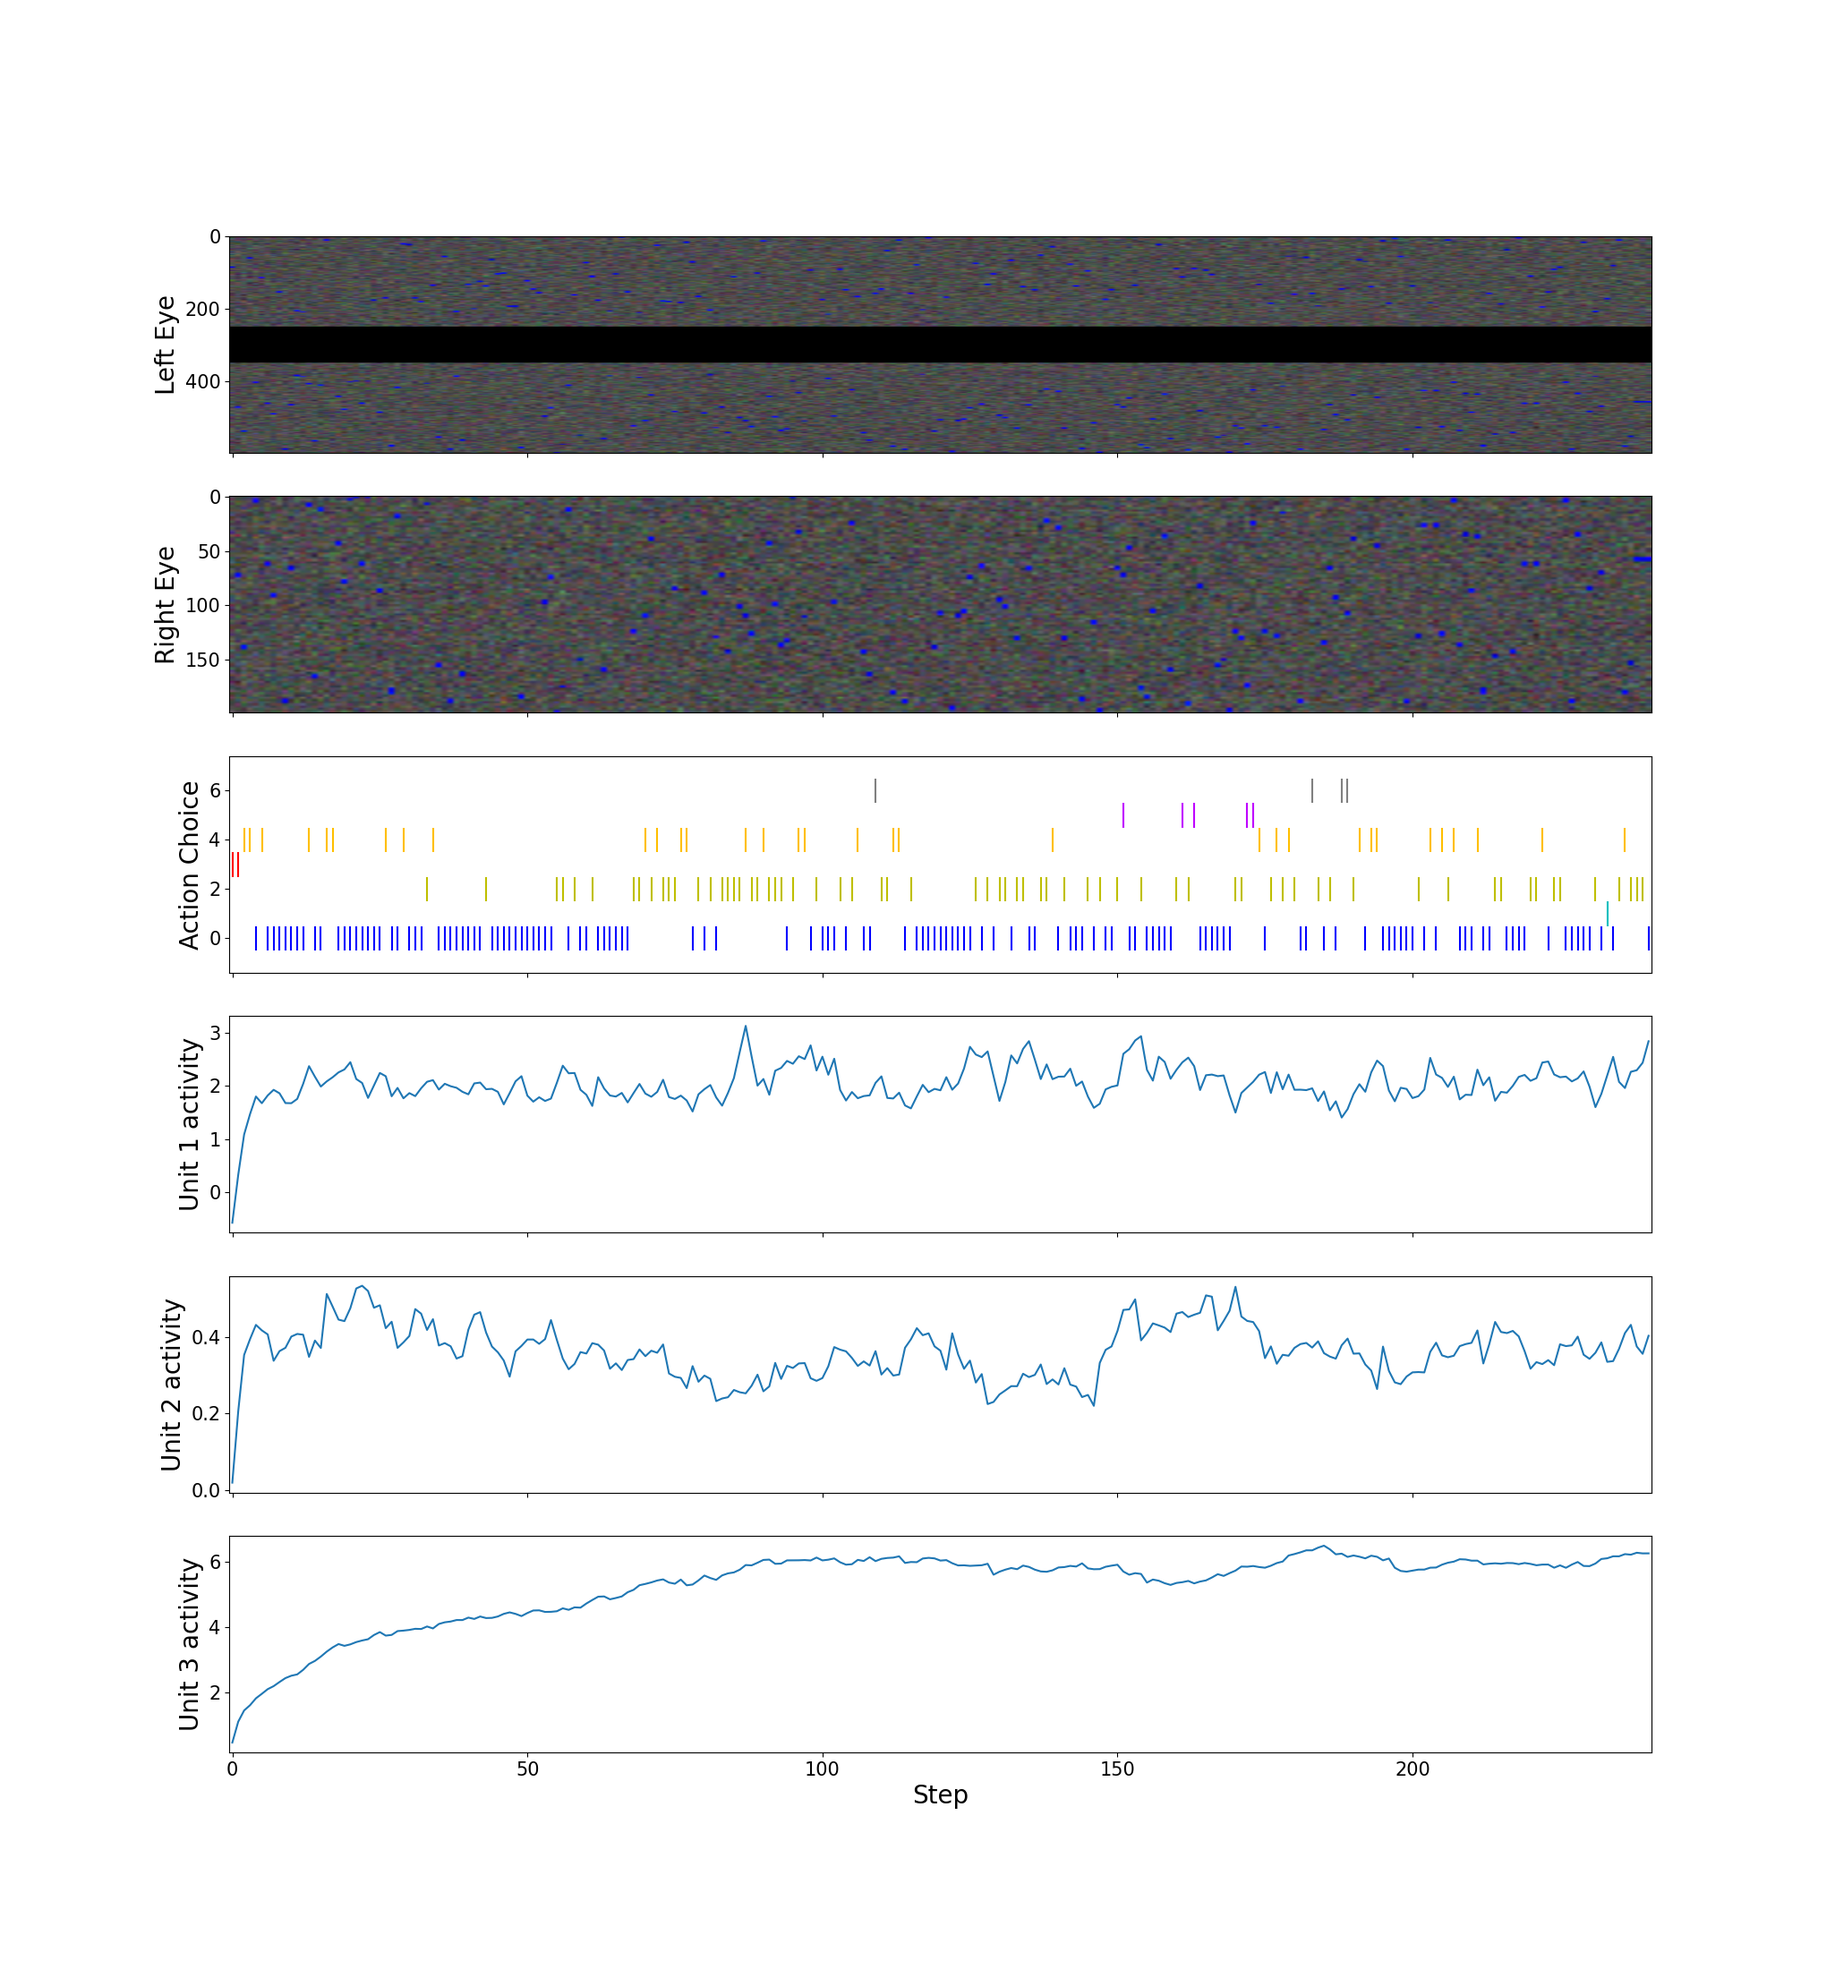
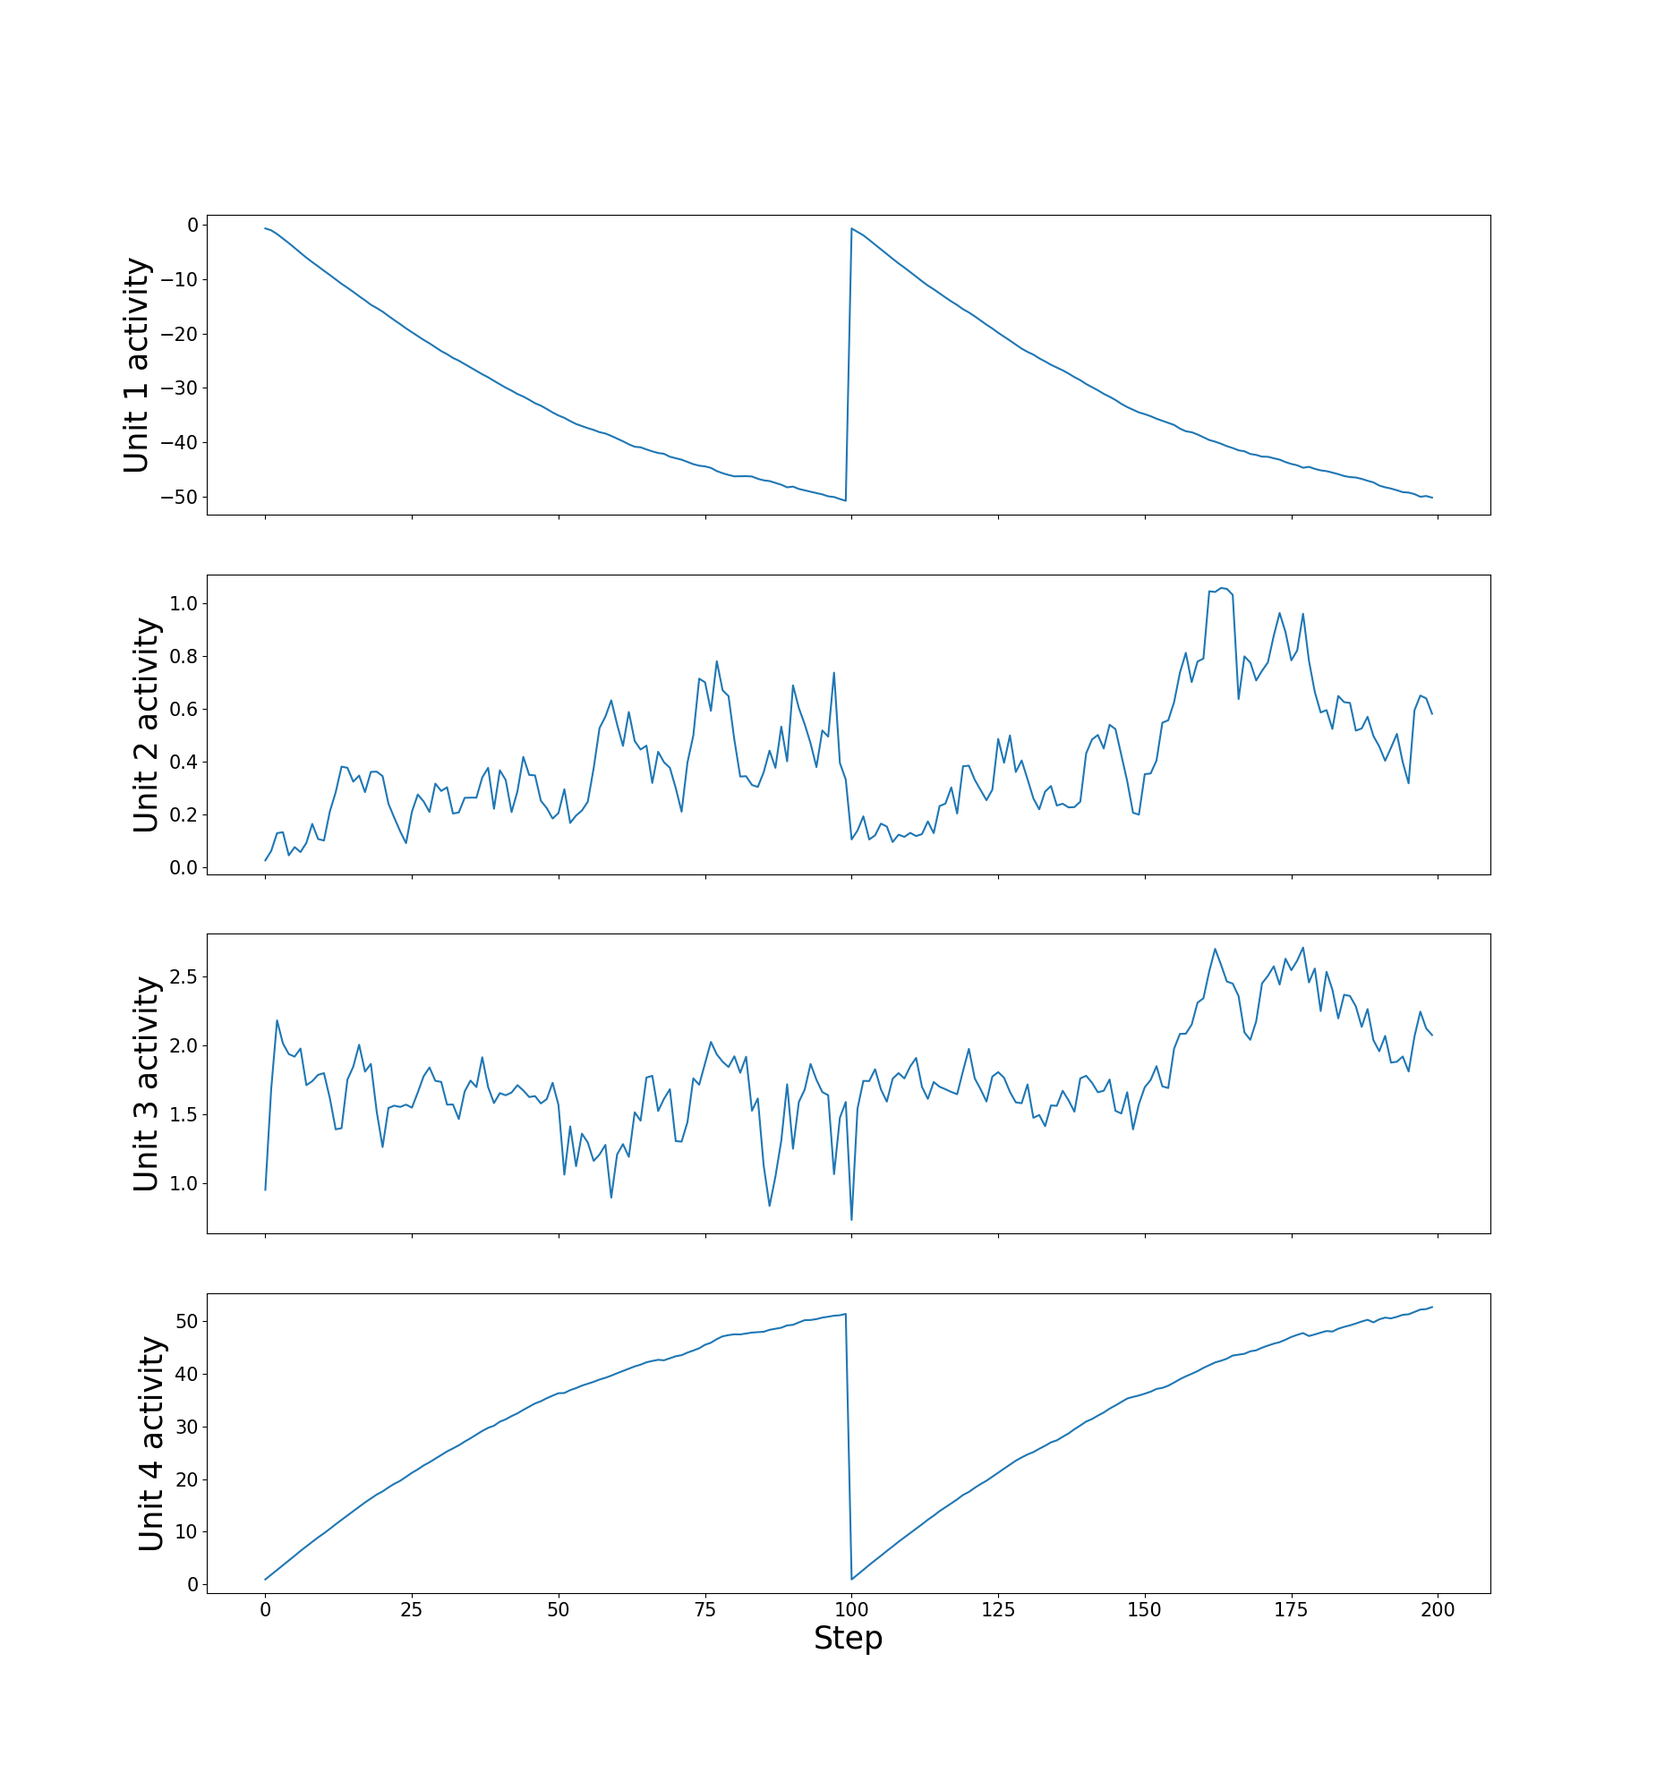
Added in VRV analysis

diff --git a/Analysis/Neural/calculate_vrv.py b/Analysis/Neural/calculate_vrv.py
@@ -1,0 +1,52 @@
+import numpy as np
+
+
+from Analysis.load_stimuli_data import load_stimulus_data
+from Analysis.load_data import load_data
+
+
+def get_stimulus_vector(stimulus_data, stimulus):
+    """Returns a list of all the stimulus features presented"""
+    angles = []
+
+    for period in stimulus_data:
+        angles.append(period[stimulus]["Angle"])
+
+    return angles
+
+
+def get_all_neuron_vectors(all_data, stimulus, stimulus_data, neuron_type):
+    # TODO: note, this probably wont be appropriate for conv layers as the data dimensions will be different.
+    n_neurons = all_data[neuron_type].shape[2]
+    vectors = []
+    for i in range(n_neurons):
+        neural_data = all_data[neuron_type][:,:,i]
+        vector = get_neuron_vector(neural_data, stimulus_data, stimulus)
+        vectors.append(vector)
+    return vectors
+
+
+def get_neuron_vector(neural_data, stimulus_data, stimulus):
+    vector = []
+    for period in stimulus_data:
+        interval = period[stimulus]["Onset"] - period[stimulus]["Pre-onset"]
+        vector.append(calculate_scalar_value(neural_data, period[stimulus]["Pre-onset"], period[stimulus]["Onset"], period[stimulus]["Onset"] + interval))
+    return vector
+
+
+def calculate_scalar_value(neural_data, t_start, t_mid, t_fin):
+    baseline = np.mean(neural_data[t_start: t_mid])
+    response = np.mean(neural_data[t_mid: t_fin])
+    return (response - baseline)/baseline
+
+
+data = load_data("changed_penalties-1", "Controlled_Visual_Stimuli", "Curved_prey")
+stimulus_data = load_stimulus_data("changed_penalties-1", "Controlled_Visual_Stimuli")
+
+stimulus_vector = get_stimulus_vector(stimulus_data, "prey 1")
+all_vectors = get_all_neuron_vectors(data, "prey 1", stimulus_data, "rnn state")
+
+
+x = True
+
+

diff --git a/Analysis/Visualisation/plot_activity.py b/Analysis/Visualisation/plot_activity.py
@@ -28,13 +28,20 @@ def plot_activity(rnn_data):
     plt.show()
 
 
-data = load_data("changed_penalties-2", "Naturalistic", "Naturalistic-1")
+data = load_data("changed_penalties-1", "Controlled_Visual_Stimuli", "Curved_prey")
 
 
-rnn_unit_1 = [data["rnn state"][i-1][0][0] for i in data["step"]]
-rnn_unit_3 = [data["rnn state"][i-1][0][19] for i in data["step"]]
-rnn_unit_200 = [data["rnn state"][i-1][0][190] for i in data["step"]]
-conv_unit_1 = [data["left_conv_1"][i-1][0][0] for i in data["step"]]
+rnn_unit_1 = [data["rnn state"][i-1][0][0] for i in data["step"][200:400]]
+rnn_unit_3 = [data["rnn state"][i-1][0][20] for i in data["step"][200:400]]
+rnn_unit_200 = [data["rnn state"][i-1][0][70] for i in data["step"][200:400]]
+conv_unit_1 = [data["rnn state"][i-1][0][69] for i in data["step"][200:400]]
+
+# rnn_unit_1 = [data["rnn state"][i-1][0][29] for i in data["step"]]
+# rnn_unit_3 = [data["rnn state"][i-1][0][20] for i in data["step"]]
+# rnn_unit_200 = [data["rnn state"][i-1][0][70] for i in data["step"]]
+# conv_unit_1 = [data["rnn state"][i-1][0][69] for i in data["step"]]
+
+
 
 unit_activity = [rnn_unit_1, rnn_unit_3, rnn_unit_200, conv_unit_1]
 plot_activity(unit_activity)

diff --git a/Analysis/load_stimuli_data.py b/Analysis/load_stimuli_data.py
@@ -1,12 +1,35 @@
 import json
 
 
-path = "changed_penalties-1/Controlled_Visual_Stimuli-stimuli_data.json"
+def load_stimulus_data(model_name, assay_name):
 
-with open(f"../Assay-Output/{path}") as file:
-    data = json.load(file)
+    path = f"{model_name}/{assay_name}-stimuli_data.json"
 
-x = True
+    with open(f"../../Assay-Output/{path}") as file:
+        data = json.load(file)
+
+    stimuli_periods = []
+    to_delete = []
+    for i, entry in enumerate(data):
+        if i == 0:
+            for stimulus in entry.keys():
+                data[i][stimulus]["Pre-onset"] = 0
+        else:
+            if i % 2 == 0:
+                for stimulus in entry.keys():
+                    data[i][stimulus]["Pre-onset"] = data[i-1][stimulus]["Pre-onset"]
+            else:
+                to_delete.append(i)
+
+    for i in reversed(to_delete):
+        del data[i]
+
+    return data
+
+
+# format this data to be useful for comparison.
+
+# load_stimulus_data("changed_penalties-1", "Controlled_Visual_Stimuli")
 
 
 

diff --git a/Services/assay_service.py b/Services/assay_service.py
@@ -283,7 +283,6 @@ class AssayService:
         self.episode_summary_data = None
 
     def save_stimuli_data(self):
-        print(self.stimuli_data)
         with open(f"{self.data_save_location}/{self.assay_configuration_id}-stimuli_data.json", "w") as output_file:
             json.dump(self.stimuli_data, output_file)
         self.stimuli_data = []
@@ -362,14 +361,6 @@ class AssayService:
             if stimuli[stimulus]:
                 to_save[stimulus] = stimuli[stimulus]
 
-        # to_remove = []
-        # for stimulus in stimuli.keys():
-        #     if not stimuli[stimulus]:
-        #         to_remove.append(stimulus)
-        # for stimulus in to_remove:
-        #     del stimuli[stimulus]
-        # if stimuli:
-        #     self.stimuli_data.append(stimuli)
         if to_save:
             self.stimuli_data.append(to_save)
 

diff --git a/run.py b/run.py
@@ -199,15 +199,15 @@ non_random_projection_configuration = [
                 "set positions": False,
                 "random positions": False,
                 "reset": True,
-                "reset interval": 10,
-                "duration": 50,
+                "reset interval": 100,
+                "duration": 500,
                 "save frames": True,
                 "save stimuli": True,
-                "recordings": ["observation"],
+                "recordings": ["rnn state"],
                 "stimuli": {
-                    "prey 1": {"steps": 50,
+                    "prey 1": {"steps": 500,
                                "size": 5,
-                               "interval": 10,
+                               "interval": 100,
                                },
                 },
                 "interactions": []

diff --git a/Environment/controlled_stimulus_environment.py b/Environment/controlled_stimulus_environment.py
@@ -184,7 +184,6 @@ class ControlledStimulusEnvironment(BaseEnvironment):
         stimuli_to_delete = []
         for i, stimulus, in enumerate(self.unset_stimuli.keys()):
             if self.num_steps % self.unset_stimuli[stimulus]["interval"] == 0:
-                print(self.num_steps)
                 self.stimuli_information[stimulus]["Pre-onset"] = self.num_steps
                 self.prey_bodies[i].position = (10, 10)
             elif self.num_steps % self.unset_stimuli[stimulus]["interval"] == self.unset_stimuli[stimulus]["interval"]/2:
